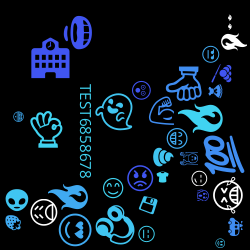
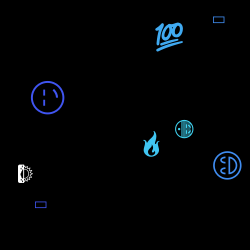
Done!

diff --git a/src/main/java/com/seekers/seekerback/service/EmojiCloudService.java b/src/main/java/com/seekers/seekerback/service/EmojiCloudService.java
@@ -17,17 +17,19 @@ import com.kennycason.kumo.palette.LinearGradientColorPalette;
 import java.awt.*;
 import java.io.File;
 import java.io.IOException;
-import java.util.ArrayList;
+import java.io.UnsupportedEncodingException;
+import java.util.*;
 import java.util.List;
-import java.util.Map;
-import java.util.Random;
+import java.util.regex.Matcher;
+import java.util.regex.Pattern;
+
 import com.alibaba.fastjson.*;
 import com.seekers.seekerback.util.database.ISearchService;
 import com.seekers.seekerback.util.database.impl.SearchServiceImpl;
 
 public class EmojiCloudService {
 
-    public static List<WordFrequency> getEmojiFrequency (int id) {
+    public static List<WordFrequency> getEmojiFrequency (int id) throws UnsupportedEncodingException {
 
 
         List<Map<String, Object>> text1_json = new ArrayList<>();
@@ -37,53 +39,87 @@ public class EmojiCloudService {
         ISearchService iSearchService = new SearchServiceImpl("localhost", 9200);
         List<String> result = iSearchService.idQuery("twitter");
         for (String e : result) {
-            //System.out.println(e);
-            //System.out.println(iSearchService.get("twitter", e));
+//            System.out.println(e);
+//            System.out.println(iSearchService.get("twitter", e));
             text1_json.add(iSearchService.get("twitter", e));
         }
-        System.out.println(text1_json);
+
+
+        iSearchService.close();
+        //System.out.println(text1_json);
+
+        String emojiRe = "[\\ud800\\udc00-\\udbff\\udfff\\ud800-\\udfff]";
+        Pattern r = Pattern.compile(emojiRe);
+        Matcher m;
+
+        //String newStr;
+
+        //String onlyEmoji = " ";
+
+
+
+        Map<String, Integer> map = new HashMap<String, Integer>();
+        int temp = 0;
 
         for (Map<String, Object> e : text1_json) {
-            System.out.println(e.get("text"));
-            text3.add(e.get("text").toString()
-                    //remove something here
-                    //url
-                    .replaceAll("http\\S+", "")
-                    //time
-                    .replaceAll("\\d:\\d\\dpmE", ""));
-            //stop word dictionary should be here
+//            text3.add(e.get("text").toString()
+//                    .replaceAll("\\w*", "")
+//                    //.replaceAll("\\\\u[A-Z0-9]{4}\\\\u[A-Z0-9]{4}", "")
+//                    .replaceAll("[!\\\"#$%&'()*+,-./:;<=>?@\\\\\\\\\\\\[\\\\]^_`{|}~]*", "")
+//                    .replaceAll("[\\\\ud800\\\\udc00-\\\\udbff\\\\udfff\\\\ud800-\\\\udfff]", "")
+
+
+
+            //newStr = new String(e.get("text").toString().getBytes(), "UTF-8");
+            m = r.matcher(e.get("text").toString());
+            System.out.println(e.get("text").toString());
+//            System.out.println(m.find());
+
+
+            while(m.find()) {
+                //System.out.println("**********************");
+                //onlyEmoji = onlyEmoji + " " + m.group() + "l";
+
+                if (map.get(m.group()) == null) {
+                    map.put(m.group(), 1);
+                } else {
+                    temp = map.get(m.group())+1;
+                    map.put(m.group(), temp);
+
+                }
+            }
+
+            //text3.add(onlyEmoji);
 
         }
-//        for (String e:text){
-//            text2= text2.concat(e);
-//            text2= text2.concat(" ");
-//        }
-//
-//        System.out.println(text2);
-//        text3.add(text2);
 
-//        List<String> text = new ArrayList();
-//        text.add("\uD83D\uDE32sdfsadf");
-//        text.add("\uD83D\uDC44fsdf");
-//        text.add("kumokumo");
-//
-//        ISearchService iSearchService = new SearchServiceImpl("localhost", 9200);
-//        for (int i = 0; i < 10; i++){
-//            iSearchService.getByJson(id);
+
+//        System.out.println(text3);
+//        return text3;
 
 
 
-
-
-
-//get data from database as json, parse it into a emoji word frequency
-//not finished, for testing
 
         final List<WordFrequency> wordFrequencies = new ArrayList<>();
-        for (final String emoji : EMOJIS) {
-            wordFrequencies.add(new WordFrequency(emoji, RANDOM.nextInt(250)));
+
+
+        for (Map.Entry<String, Integer> entry: map.entrySet()) {
+
+            String key = entry.getKey();
+
+            Integer value = entry.getValue();
+            wordFrequencies.add(new WordFrequency(key, value));
+
         }
+//        for (final String emoji : EMOJIS) {
+//            wordFrequencies.add(new WordFrequency(emoji, RANDOM.nextInt(250)));
+//        }
+
+        System.out.println(wordFrequencies);
         return wordFrequencies;
+
+
+
 
     }
 
@@ -100,6 +136,7 @@ public class EmojiCloudService {
         //load frequency using getEmojiFrequency, need to give id to it
 
         final List<WordFrequency> wordFrequencies = frequencyAnalyzer.loadWordFrequencies(getEmojiFrequency(id));
+                //loadWordFrequencies(getEmojiFrequency(id));
 
         //new wordcloud object
 
@@ -169,7 +206,9 @@ public class EmojiCloudService {
 
 
     public static void main(String[] args) throws IOException{
-        getEmojiFrequency(0);
+        getEmojiCloudGraph(0);
+        //getEmojiFrequency(0);
+
     }
 
 

diff --git a/src/test/java/com/seekers/seekerback/ISearchServiceTest.java b/src/test/java/com/seekers/seekerback/ISearchServiceTest.java
@@ -27,7 +27,7 @@ public class ISearchServiceTest {
         idList.add("1320508566822739969");
         idList.add("1321567946133569536");
         List<Map<String, Object>> mapList = new ArrayList<>();
-        mapList = (List<Map<String, Object>>) JSON.parse("[{\"created_at\":\"2020-10-25T23:33:45.000Z\",\"text\":\"@LionessMo\\uD83D\\uDCAFnbebe \\uD83D\\uDCAF@WayV_official \\uD83D\\uDE0FHehe thank you!! \\uD83D\\uDE0FI just love it so much \\uD83D\\uDE04\\uD83D\\uDE04\\uD83D\\uDE04\\uD83D\\uDE04\"},{\"created_at\":\"2020-10-28T21:42:06.000Z\",\"text\":\"(T/N\\uD83D\\uDE0F\\uD83D\\uDE0F\\uD83D\\uDE0F: this is the MV \\uD83D\\uDD25\\uD83D\\uDD25for \\\"More\\\" by \\uD83D\\uDE33\\uD83D\\uDE33K/DA)\"}]");
+        mapList = (List<Map<String, Object>>) JSON.parse("[{\"created_at\":\"2020-11-25T23:33:45.000Z\",\"text\":\"@LionessMo\\uD83D\\uDCAF\\uD83D\\uDCAF\\uD83C\\uDF05\\uD83D\\uDEE5\\uD83E\\uDD70\\nbebe \\uD83D\\uDCAF@WayV_official \\uD83D\\uDE0FHehe thank you!! \\uD83D\\uDE0FI just love it so much \\uD83D\\uDE04\\uD83D\\uDE04\\uD83D\\uDE04\\uD83D\\uDE04\"},{\"created_at\":\"2020-10-28T21:42:06.000Z\",\"text\":\"(T/N\\uD83D\\uDE0F\\uD83D\\uDE0F\\uD83D\\uDE0F: this is the MV \\uD83D\\uDD25\\uD83D\\uDD25for \\\"More\\\" by \\uD83D\\uDE33\\uD83D\\uDE33K/DA)\"}]");
         System.out.println(iSearchService.bulkUpsert("twitter", idList, mapList));
 
         iSearchService.close();
